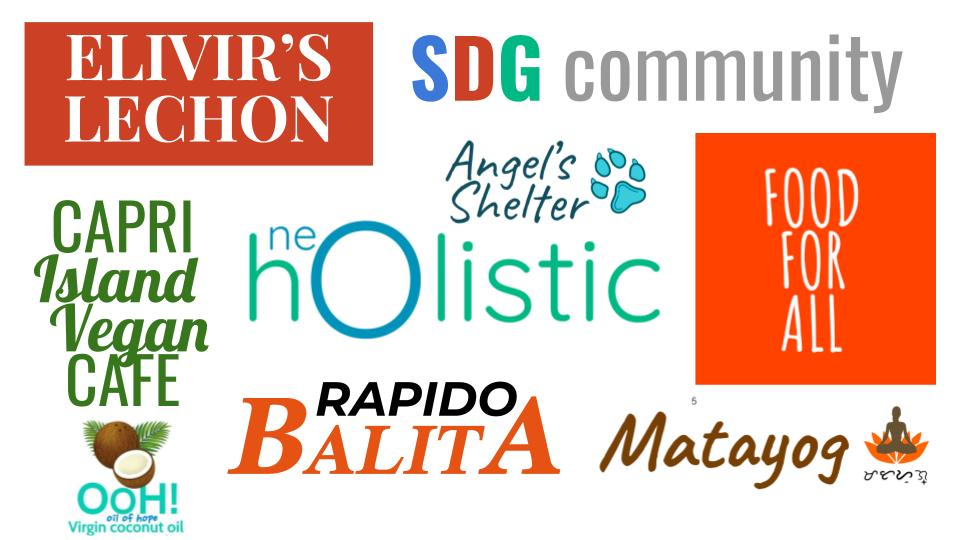
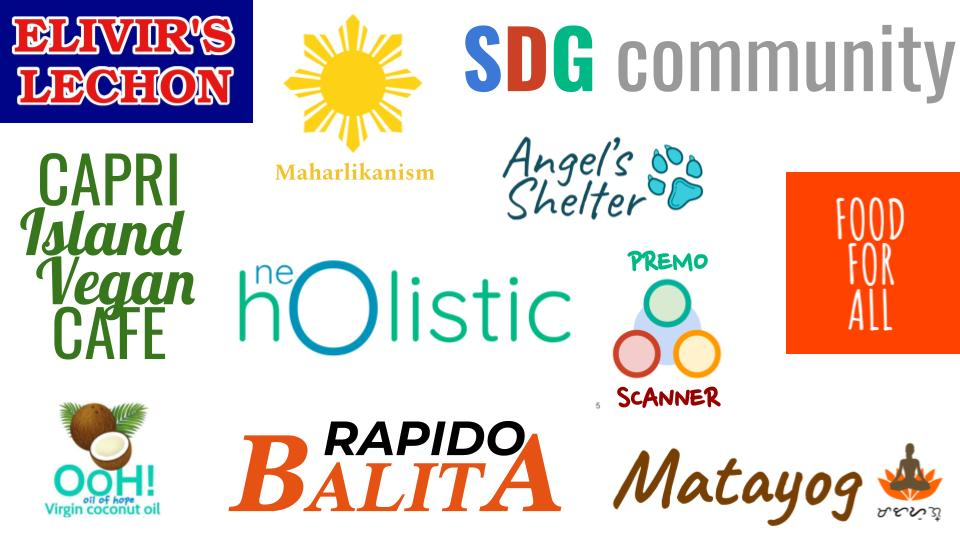
update

diff --git a/themes/pptheme/layouts/index.html b/themes/pptheme/layouts/index.html
@@ -63,7 +63,7 @@
       <h2 class="title is-3">{{ .title | markdownify }}</h2>
       <p class="subtitle is-5">{{ .subtitle | markdownify }}</p>        
     </div>
-    <div class="columns is-multiline is-mobile is-flex-wrap-wrap is-justify-content-center my-5">    
+    <div class="columns is-multiline is-mobile is-flex-wrap-wrap is-justify-content-center my-5"> 
       {{ range .sitem }}
         <div class="column is-3-desktop is-12-mobile">
           <div class="card p-5 has-text-centered">
@@ -163,7 +163,7 @@
     <div class="container has-text-centered">
       <h2 class="title is-2">{{ .title | markdownify }}</h2>
   
-      <div class="columns is-multiline is-mobile">
+      <div class="columns is-multiline is-mobile is-flex-wrap-wrap is-justify-content-center"> 
         {{ range .sitem }}
           <div class="column is-4-desktop is-12-mobile my-5">
             <div class="card has-text-centered card-equal-height p-4">
@@ -182,6 +182,31 @@
   </section>
 {{ end }}
 
+
+
+{{ with .Params.services }}
+  <section class="section my-5">
+    <div class="container has-text-centered">
+      <h2 class="title is-2">{{ .title | markdownify }}</h2>
+  
+      <div class="columns is-multiline is-mobile is-flex-wrap-wrap is-justify-content-center"> 
+        {{ range .svc }}
+          <div class="column is-4-desktop is-12-mobile my-5">
+            <div class="card has-text-centered card-equal-height p-4">
+              <a href="{{ .link }}">
+                <figure class="image is-128x128 is-inline-block">
+                  <img class="is-rounded mb-3" src="{{ .image }}" width="100px" alt="{{ .name }}">
+                </figure>
+              </a>
+              <h3 class="subtitle is-4">{{ .name | title }}</h3>
+              <p>{{ .content | markdownify }}</p>
+            </div>
+          </div>
+        {{ end }}
+      </div>
+    </div>
+  </section>
+{{ end }}
 
 
 {{ with .Params.feedback }}

diff --git a/themes/pptheme/layouts/partials/feature.html b/themes/pptheme/layouts/partials/feature.html
@@ -15,7 +15,7 @@
       <h2 class="title is-2">{{ .title | markdownify }}</h2>
       <p class="subtitle is-5">{{ .subtitle | markdownify }}</p> 
     </div>
-    <div class="columns is-multiline mt-6">    
+    <div class="columns is-multiline is-mobile is-flex-wrap-wrap is-justify-content-center mt-6">      
       {{ range .feature_item }}
         <div class="column is-3-desktop is-12-mobile">      
           <div class="card card-equal-height has-text-centered p-4 my-2 ">

diff --git a/content/en/news/22-06-25.md b/content/en/news/22-06-25.md
@@ -1,7 +1,7 @@
 ---
 title: "More Partners"
 #subtitle: ""
-image: "https://elivirs.com/m/sisig.jpg"
+image: "https://elivirs.com/graphics/splash820.jpg"
 date: 2022-06-25
 description: "We welcome our more partners implementing our moneyless points system"
 linkb: "news/22-04-19"
@@ -18,7 +18,7 @@ We welcome more partners implementing our moneyless points system:
 
 Elivir's is a Filipino restaurant that specializes in Cebu Lechon. They use Pantry Points to "pointify" their food waste and tap the unrealized productivity of the beneficiaries. 
 
-![Elivir's](https://elivirs.com/m/sisig.jpg)
+![Elivir's](https://elivirs.com/graphics/splash820.jpg)
 
 <!-- {{< youtube j-yl97ajFDY >}} -->
 
@@ -27,7 +27,7 @@ Elivir's is a Filipino restaurant that specializes in Cebu Lechon. They use Pant
 
 Capri Island is a Vegetarian Cafe and Restaurant that serves sentient, cruelty-free food. They use Pantry Points for their food rescue missions 
 
-![Capri Cafe](https://capricafe.shop)
+![Capri Cafe](https://capricafe.shop/capri.jpg)
 
 
 
@@ -35,9 +35,9 @@ Capri Island is a Vegetarian Cafe and Restaurant that serves sentient, cruelty-f
 
 Scanner is a socio-civic organizatinn that "scans" for social injustice and provides free legal assistance and advocacy. 
 
-![Cooperation](/photos/coop.jpg)
+![Cooperation](/icons/premo.jpg)
 
-
+<!-- 
 
 ## Points Bid
 
@@ -45,4 +45,4 @@ Points Bid is an auction site that allows companies to auction their items in re
 
 ![Points Bid](/graphics/pointsbid.jpg)
 
-
+ -->

diff --git a/content/en/_index.md b/content/en/_index.md
@@ -165,12 +165,29 @@ skill:
       link: "/pointtax"
       content : "A points-based taxation system that prevents tax evasion and increases tax revenue by spreading it to more people. Target: Tentative"
       
-    - name : Shop Front
-      image : /icons/pf.png
-      link: "/shop"      
-      content : "The pantrynomics version of Shopify. Target: Tentative"
+    # - name : Shop Front
+    #   image : /icons/pf.png
+    #   link: "/shop"      
+    #   content : "The pantrynomics version of Shopify. Target: Tentative"
 
 
+services:
+  title : "Services"
+  svc:
+    # - name : "Pantry"
+    #   image : "https://sorasystem.sirv.com/icons/pantry.png"
+    #   content : "A waste to wealth system that uses points and point-banks instead of currency, to de-commercialize an economy and bank the unbanked"      
+    # content : "ISAIAH Predict gives insights on potential future events based on historical data"
+
+    - name : Build
+      image : /icons/build.png
+      content : "We move offline businesses to the online world by making their websites, apps, and social media presence"
+      link: build
+
+    - name : Predict 
+      image : /icons/predict.png
+      content : "We answer questions on future events using our ISAIAH models"
+      link: predict
 
 feedback:
   title: "Feedback"

diff --git a/content/en/news/22-04-19.md b/content/en/news/22-04-19.md
@@ -14,7 +14,7 @@ linkftext: "Index"
 We welcome our new partners implementing our moneyless points system:
 
 
-### Matayog Tai-chi Yoga
+## Matayog Tai-chi Yoga
 
 Matayog teaches Tai-chi and Yoga in Paranaque City in The Philippines. 
 
@@ -23,24 +23,23 @@ Matayog teaches Tai-chi and Yoga in Paranaque City in The Philippines.
 {{< youtube j-yl97ajFDY >}}
 
 
-### Neoholistic Yoga
+## Neoholistic Yoga
 
 Neoholistic Yoga is a yoga and pilates center in Taman Desa, Malaysia 
 
 ![Yoga Class](https://neoholistic.shop/images/video-thumb.jpg)
 
 
-### Food for All
+
+## Food for All
 
 Food for All is a charity in Bicol Province that does feeding programs for poor communities
 
 ![Feeding program](https://foodforall.xyz/pics/mh/bicol/fabicol5s.jpg)
 
 
-### Angel's Shelter
+## Angel's Shelter
 
 Angel's Shelter is an animal shelter in Binan Laguna, Philippines. They also do food rescue for feeding programs
 
 ![Event with Panya](https://angelshelter.shop/e/220331a.jpg)
-
-
